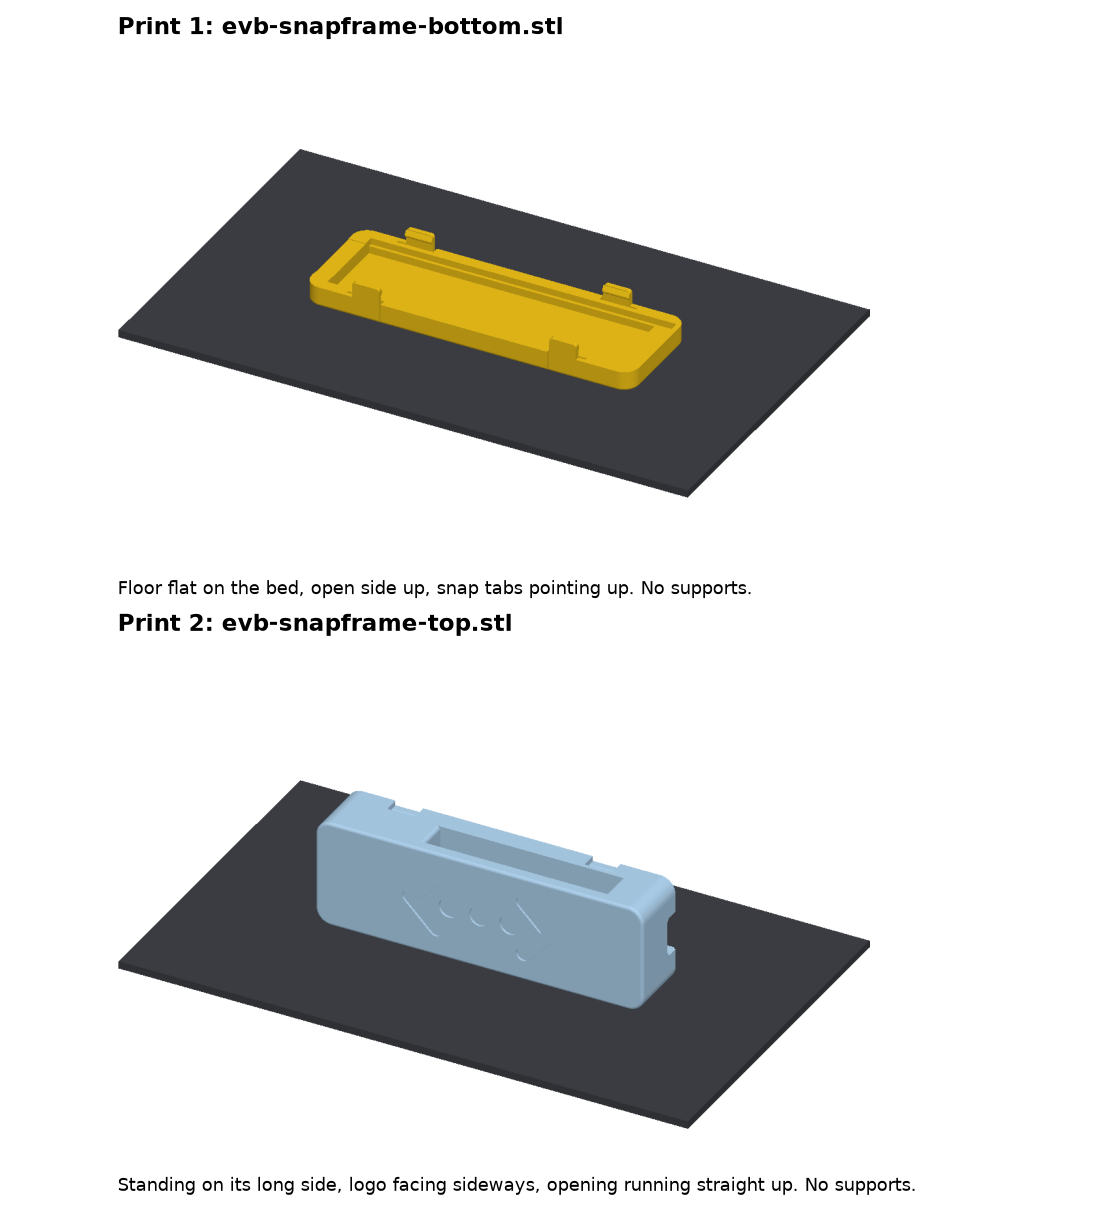
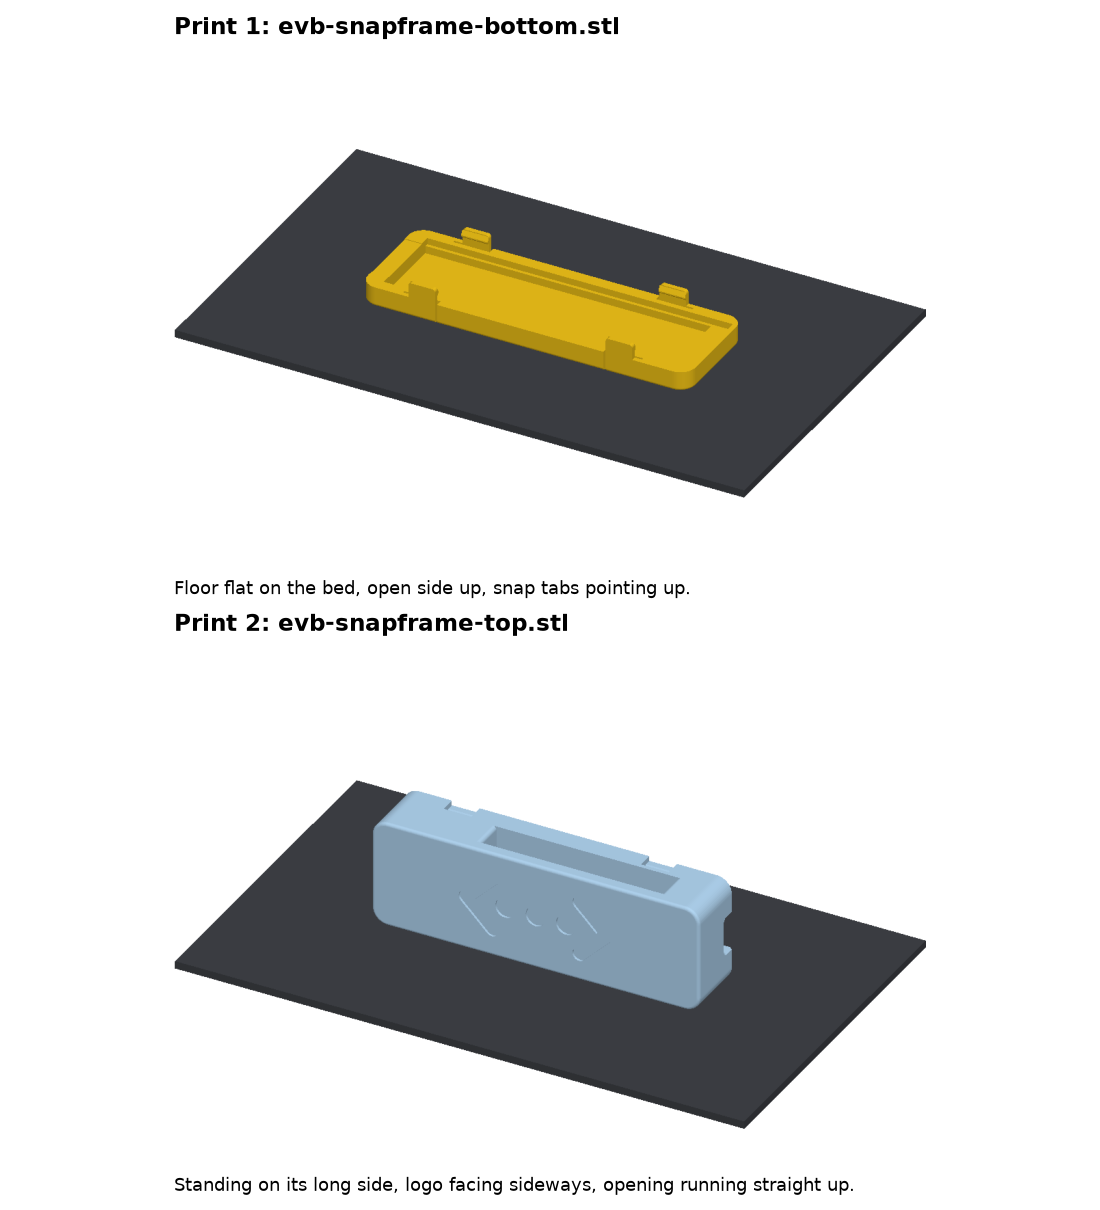
Case: shorter doc, US spelling, print step in the README
- docs/ENCLOSURE.md: printing and generating only; design notes stay in the
  script's comments.
- Bed render: drop "No supports" from the captions.
- US spelling in the case doc and script comments.
- README: "Print the case (optional)" step in Make your own picoplug.

diff --git a/enclosure/evb-snapframe/evb_snapframe.py b/enclosure/evb-snapframe/evb_snapframe.py
@@ -1,4 +1,4 @@
-"""All-printed two-piece case for the W55RP20-EVB-Pico: a block round the RJ45 and one over
+"""All-printed two-piece case for the W55RP20-EVB-Pico: a block around the RJ45 and one over
 the USB-C, an opening between them under a printed plate with the project logo sunk into
 it, and PLA-friendly snaps holding the halves together.
 
@@ -14,7 +14,7 @@ long bridge left, 22 mm, and it comes out rough. The .stl files for the top are 
 rotated for that; the .step files stay in case coordinates.
 
 Run:  uv run evb_snapframe.py [path/to/W55RP20-EVB-Pico_V100.step]
-With the board STEP given it checks overlaps and writes the coloured assembly too.
+With the board STEP given it checks overlaps and writes the colored assembly too.
 """
 import math
 import os
@@ -44,9 +44,9 @@ FLOOR = 1.6                                       # floor and deck, 4 lines at 0
 CAV_X0, CAV_X1 = -0.2, BOARD_L + 0.25             # board cavity
 CAV_Y0, CAV_Y1 = -0.25, BOARD_W + 0.25
 BOSS_D = 4.8                                      # pads over and under the board's holes
-TAB_CLR = 1.2                                     # round the RJ45 cage body on top and both sides:
+TAB_CLR = 1.2                                     # around the RJ45 cage body on top and both sides:
 POCKET_Y0, POCKET_Y1 = 2.55 - TAB_CLR, 18.45 + TAB_CLR   # its spring tabs stay inside
-FACE_LIP = 1.0                                    # front lip round the cage, 0.25 clear
+FACE_LIP = 1.0                                    # front lip around the cage, 0.25 clear
 X0, X1 = JACK_FACE_X, 81.6                        # flush with the jack face; the USB-C mouth (80.6)
                                                   # sits 1 mm inside the face
 REAR_IN = 79.4                                    # inside of the rear wall: the lip over the board's end
@@ -55,7 +55,7 @@ R = 4.0                                           # plan corner radius
 LOW_Z0 = UNDER_Z - FLOOR                          # case bottom
 UP_Z1 = JACK_TOP + TAB_CLR                        # top of the jack pocket
 DECK_Z = TAIL_TOP + FLOOR                         # deck over the board, under the opening
-FRONT_BLOCK_X1 = 22.3                             # block round the cage ends 4 mm behind the pocket
+FRONT_BLOCK_X1 = 22.3                             # block around the cage ends 4 mm behind the pocket
 REAR_BLOCK_X0 = 70.0                              # block over the USB-C
 EDGE_R = 1.0
 
@@ -69,7 +69,7 @@ ARM_T, TAB_L = 1.2, 7.0
 END_SLIT, BACK_GAP = 0.6, 0.6
 BARB, WALL_GAP = 0.6, 0.1     # hook = BARB - WALL_GAP
 END_GAP = 0.2                 # clip ends to the top's openings: the only thing locating the halves along x
-SLOT_SHIFT = 0.0              # moves the top's openings along x, if a printed top sits off-centre
+SLOT_SHIFT = 0.0              # moves the top's openings along x, if a printed top sits off-center
 TAB_ROUND = 0.8               # clip tops rounded at both ends, to clear the openings' printed inside corners
 TAB_TOP = 3.9
 

diff --git a/enclosure/evb-snapframe/assembly.py b/enclosure/evb-snapframe/assembly.py
@@ -1,5 +1,5 @@
 """WIZnet's board model for the snap frame: loads it (without the pin headers in WIZnet's
-model; the board ships without them) and writes coloured USDZ previews of the case with the
+model; the board ships without them) and writes colored USDZ previews of the case with the
 board inside. Used by evb_snapframe.py and render_frosted.py; everything is in the case's
 coordinates, so nothing moves."""
 import os
@@ -18,7 +18,7 @@ MATERIALS = {                      # name: (diffuse RGB, opacity)
 
 
 def evb_parts(step):
-    """WIZnet's solids, coloured by shape: the board green, the RJ45 cage metal, the rest dark."""
+    """WIZnet's solids, colored by shape: the board green, the RJ45 cage metal, the rest dark."""
     out = []
     for i, s in enumerate(cq.importers.importStep(step).solids().vals()):
         b = s.BoundingBox()

diff --git a/enclosure/evb-snapframe/render_bed.py b/enclosure/evb-snapframe/render_bed.py
@@ -18,9 +18,9 @@ top = top.translate(cq.Vector(0, 0, -top.BoundingBox().zmin))
 fig, axs = plt.subplots(2, 1, figsize=(10, 11))
 for ax, part, rgb, title, note in (
         (axs[0], bottom, R.YELLOW, "Print 1: evb-snapframe-bottom.stl",
-         "Floor flat on the bed, open side up, snap tabs pointing up. No supports."),
+         "Floor flat on the bed, open side up, snap tabs pointing up."),
         (axs[1], top, R.CLEAR, "Print 2: evb-snapframe-top.stl",
-         "Standing on its long side, logo facing sideways, opening running straight up. No supports.")):
+         "Standing on its long side, logo facing sideways, opening running straight up.")):
     ax.imshow(R.view([(R.tris(bed), BED), (R.tris(part), rgb)], 32, -62, px=1100, mm=175.0))
     ax.set_axis_off()
     ax.set_title(title, fontsize=15, fontweight="bold", loc="left")

diff --git a/enclosure/evb-snapframe/render_snapframe.py b/enclosure/evb-snapframe/render_snapframe.py
@@ -20,7 +20,7 @@ def tris(shape, dz=0.0):
 
 
 def view(parts, elev, azim, px=900, mm=125.0):
-    """Orthographic z-buffer render: parts are (triangles, colour)."""
+    """Orthographic z-buffer render: parts are (triangles, color)."""
     e, a = np.radians(elev), np.radians(azim)
     fwd = np.array([np.cos(e) * np.cos(a), np.cos(e) * np.sin(a), np.sin(e)])    # towards the viewer
     right = np.array([-np.sin(a), np.cos(a), 0.0])

diff --git a/docs/ENCLOSURE.md b/docs/ENCLOSURE.md
@@ -1,118 +1,49 @@
-# Case
+# Picoplug Enclosure
 
-A two-piece printed case for the W55RP20-EVB-Pico: a clear top with the project logo sunk
-into it and a coloured bottom, held shut by four snap arms. No screws or other hardware. An
-opening through both sides between the two end blocks takes a lanyard, strap or clip.
+A two-piece printed case for the W55RP20-EVB-Pico: a clear top and a colored bottom that
+snap together, no screws.
 
-- 86.4 x 28.0 x 21.3 mm, about 20 g of filament.
-- Opening 47.7 x 7.9 mm, through both sides. The plate over it is 3 mm thick.
-- Logo 37 x 14 mm, 0.6 mm deep, centred on the top. Fill it with paint pen if you want the
-  dots coloured.
+86.4 x 28.0 x 21.3 mm, about 20 g of filament.
 
-![sheet](img/evb_snapframe_sheet.png)
-
-The files are in `enclosure/evb-snapframe/`.
-
-| Part | Print in | Notes |
-|---|---|---|
-| `evb-snapframe-top.stl` | Clear PLA or PETG | BOOTSEL tongue; thin deck over the LEDs |
-| `evb-snapframe-bottom.stl` | Coloured PLA or PETG | Tray and 4 snap arms |
+![frosted](img/evb_snapframe_frosted.png)
 
 ## Printing
 
-- Bottom: floor on the bed, no supports, default infill. Check the gaps round the arms are
-  clear after printing; run a blade through if the first layer closed them.
-- Top: on its long side; the STL is already rotated. The opening then runs straight up, so
-  the plate and deck print as walls. The jack pocket's upper side wall still prints as an
-  unsupported 22 x 14.5 mm ceiling. Paint supports on that ceiling only (PrusaSlicer:
-  Supports set to For support enforcers only, then Paint-on supports) and pull them out
-  through the open face. Without them it comes out rough; trim any droop at the jack mouth,
-  where the clearance is only 0.25 mm.
-- Clear top: 100% aligned rectilinear infill, so no infill pattern shows through.
-- Tested on a Prusa CORE One, HF 0.4 nozzle, 0.20mm BALANCED.
-- Prusament PETG: satin sheet wiped with IPA, no glue, chamber vent open, support top
-  contact Z distance about 0.25 mm so the painted supports release. About 17 min for the
-  bottom and 34 min for the top at default infill.
-- Print both halves from the same version; old and new halves may not fit each other.
+The files are in `enclosure/evb-snapframe/`.
+
+| Part | Print in |
+|---|---|
+| `evb-snapframe-top.stl` | Clear PLA or PETG |
+| `evb-snapframe-bottom.stl` | Colored PLA or PETG |
+
+- Clear top: 100% aligned rectilinear infill, so no pattern shows through.
+- Tested on a Prusa CORE One, 0.4 mm nozzle, 0.20mm BALANCED, Prusament PETG.
 
 ![bed](img/evb_snapframe_bed.png)
 
-## Assembly
-
-1. Drop the board into the bottom, jack end first.
-2. Press the top straight down until all four arms click.
-3. BOOTSEL: press the dip in the deck with a pen tip or fingernail, in through the side of
-   the opening. BOOTSEL is the button nearer the USB end; the other is RUN.
-4. To open: slip a small flat screwdriver into the slit at an arm's tip and ease it outward.
-
-## Design
-
-**Snaps.** Each snap is a 9 mm arm in the bottom's side wall, 1.2 mm thick, bending
-sideways, with layers running along it. The arms are short and stiff since the case is
-meant to stay shut: root strain is about 1.1%, fine in PLA for a few openings. A 45 degree
-barb hooks 0.5 mm into a notch in the top; closed, the arms are relaxed. If they are too
-tight or too loose, change `BARB` in 0.1 mm steps; for a softer snap, lengthen the arms in
-`ARMS`.
-
-The arms' ends are the only thing lining the halves up along the length, with 0.2 mm at
-each end (`END_GAP`). The arm tops are rounded 0.8 mm (`TAB_ROUND`) so they can't jam in
-the slightly round printed corners of the top's openings. If a top still sits off-centre,
-`SLOT_SHIFT` moves its openings along the length.
-
-**BOOTSEL and LEDs.** A tongue in the deck, 4 mm wide and 1.2 mm thick with 0.6 mm slits
-round it, carries a nub 0.2 mm above the button. Over each LED the deck is thinned from
-below to 0.8 mm so the LEDs show through clear filament.
-
-**Board locating.** The jack pocket's back wall sits 0.1 mm behind the RJ45, from 3.6 mm
-above the board up, clear of the parts behind the jack. A drop or a cable pushed into the
-jack loads the jack against the top's front block, not the board against the lip under the
-USB-C port. The USB-C mouth sits 1 mm inside the face, so that lip is 1.3 mm thick. The
-board pocket leaves 0.35 mm a side and 0.3 mm at the USB end (`BOARD_FIT`, `BOARD_END`),
-since PETG prints a little fat. The USB-C receptacle is flush with the board's top face, so
-the bottom has no notch for it.
-
-Earlier versions had a 0.5 mm lip, which cracked, and 1.7 mm pins in the board's holes,
-which sheared off in a drop.
-
 ## Generating the case
 
-The STL files in the repo are ready to print. To change the case, edit the constants at the
-top of `enclosure/evb-snapframe/evb_snapframe.py` and generate the files again.
-
-Needs [uv](https://docs.astral.sh/uv/). It installs Python 3.12 and CadQuery, matplotlib,
-numpy and usd-core from `enclosure/pyproject.toml` and `uv.lock` on first run.
-
-From `enclosure/evb-snapframe`:
+The STL files are ready to print. To change the case, edit the constants at the top of
+`enclosure/evb-snapframe/evb_snapframe.py` (for a tighter or looser snap, `BARB` in 0.1 mm
+steps). Needs [uv](https://docs.astral.sh/uv/). From `enclosure/evb-snapframe`:
 
 ```
 uv run evb_snapframe.py
 ```
 
-This writes `evb-snapframe-top.stl`, `evb-snapframe-bottom.stl` and the matching `.step`
-files (the STEP files stay in case coordinates). A good build prints
-`top/bottom overlap 0.0 mm3`.
-
-WIZnet's 3D model of the board is not in the repo. Download `W55RP20-EVB-Pico_V100.step`
-from WIZnet's documentation for the W55RP20-EVB-Pico and pass its path:
+To also check the fit against the board, pass WIZnet's 3D model of it,
+`W55RP20-EVB-Pico_V100.step` from WIZnet's documentation (not in the repo):
 
 ```
 uv run evb_snapframe.py path/to/W55RP20-EVB-Pico_V100.step
 ```
 
-This also checks the case against the board and should print `board overlap check: clear`.
-It writes two coloured previews with the board inside, `evb-snapframe-assembly.usdz` and
-`evb-snapframe-exploded.usdz`, which open on an iPhone or iPad. They contain WIZnet's
-model, so they are not committed. `assembly.py` loads the board model and writes them.
-
-The images on this page, after generating the case:
+The images on this page:
 
 ```
-uv run render_snapframe.py                                  # docs/img/evb_snapframe_sheet.png
-uv run render_bed.py                                        # docs/img/evb_snapframe_bed.png
-uv run render_frosted.py path/to/W55RP20-EVB-Pico_V100.step # docs/img/evb_snapframe_frosted.png
+uv run render_snapframe.py
+uv run render_bed.py
+uv run render_frosted.py path/to/W55RP20-EVB-Pico_V100.step
 ```
 
-`render_frosted.py` draws the case with the board inside and the clear top frosted, the
-way clear filament prints. An approximation.
-
-![frosted](img/evb_snapframe_frosted.png)
+![sheet](img/evb_snapframe_sheet.png)

diff --git a/README.md b/README.md
@@ -19,7 +19,8 @@ Picoplug runs on WIZnet's [W55RP20-EVB-Pico](https://wiznet.io/products/evaluati
 1. **Purchase a W55RP20-EVB-Pico:** [DigiKey](https://www.digikey.com/en/products/detail/wiznet/W55RP20-EVB-PICO/24717058), [Mouser](https://www.mouser.com/en/ProductDetail/WIZnet/W55RP20-EVB-Pico?qs=IKkN%2F947nfCQ%252BaR4QuygXA%3D%3D)
 2. **Download the firmware:** [latest release](https://github.com/karlcswanson/picoplug/releases/latest)
 3. **Flash the firmware:** Hold down the BOOTSEL button when plugging the board into the computer. Once the `RPI-RP2` volume appears, drag on the `-w55rp20.uf2` firmware file.
-4. **Plug it into your phone:** The picoplug is accessible at http://192.168.7.1 or http://picoplug.local. The IP address can be changed in the Settings tab. Android and iOS devices handle network routes slightly differently. For use on Android devices, Airplane mode may need to be enabled to access the picoplug.
+4. **Print the case (optional):** [STL files and print settings](docs/ENCLOSURE.md)
+5. **Plug it into your phone:** The picoplug is accessible at http://192.168.7.1 or http://picoplug.local. The IP address can be changed in the Settings tab. Android and iOS devices handle network routes slightly differently. For use on Android devices, Airplane mode may need to be enabled to access the picoplug.
 
 ## Features
 
